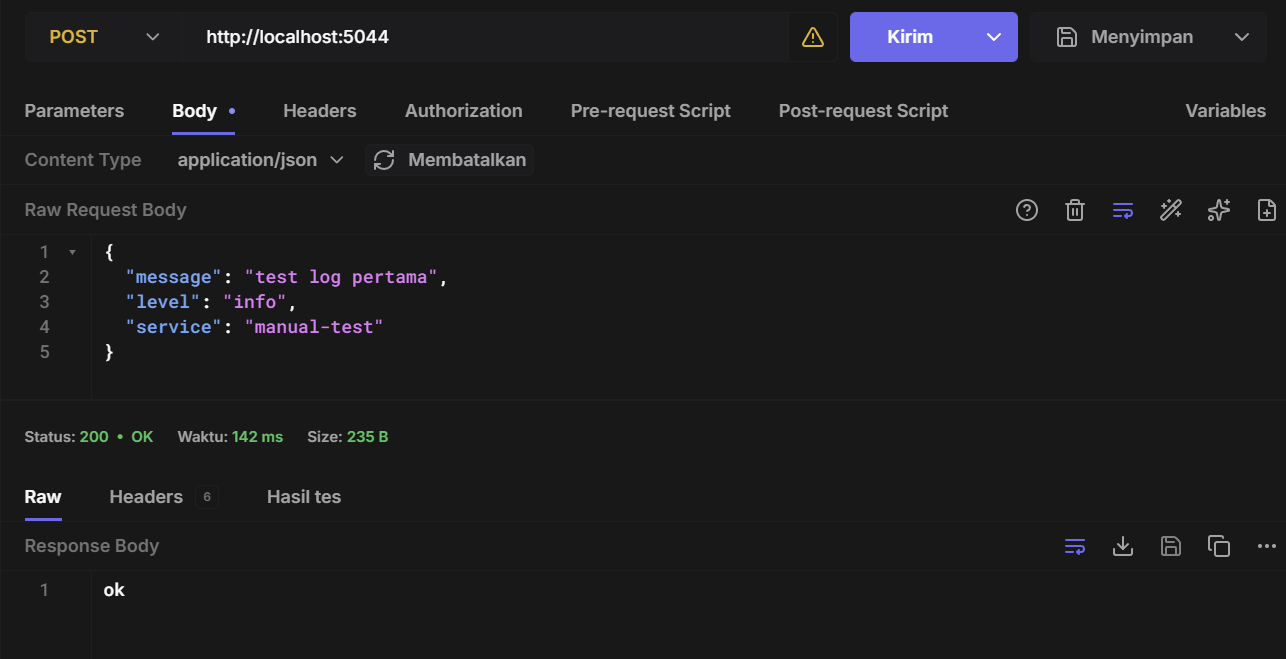
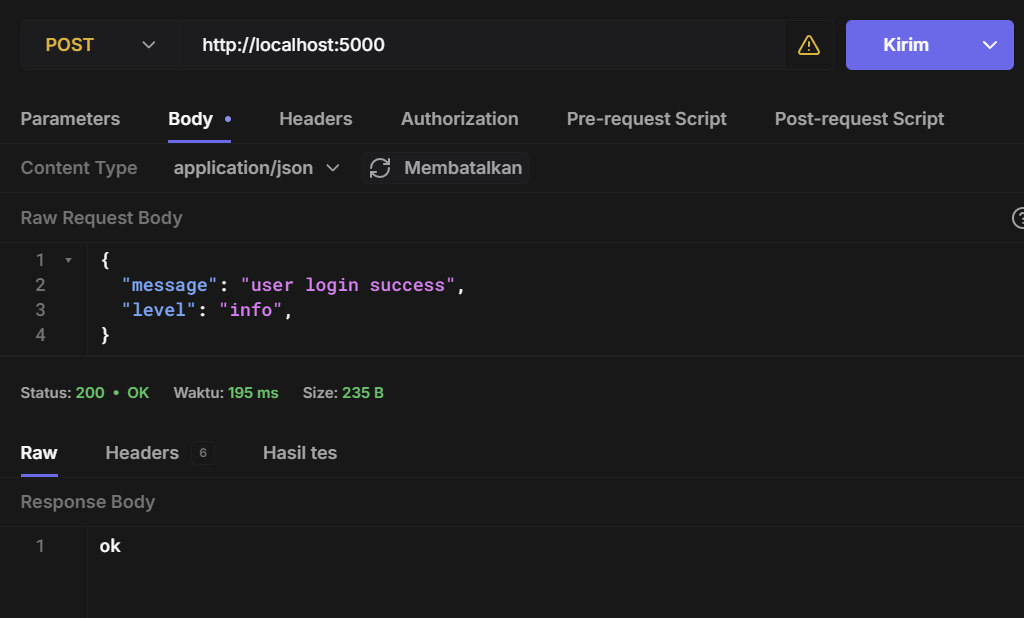
fix: port logstash

diff --git a/logging-monitoring/README.md b/logging-monitoring/README.md
@@ -114,7 +114,7 @@ Untuk mengimplementasikan ELK Stack, kita dapat mengikuti langkah-langkah beriku
         volumes:
         - ./logstash.conf:/usr/share/logstash/pipeline/logstash.conf
         ports:
-        - "5044:5044"
+        - "5000:5000" 
         depends_on:
         - elasticsearch
 
@@ -132,13 +132,8 @@ Untuk mengimplementasikan ELK Stack, kita dapat mengikuti langkah-langkah beriku
     input {
         http {
             host => "0.0.0.0"
-            port => 5044
-        }
-        }
-
-        filter {
-        json {
-            source => "message"
+            port => 5000
+            codec => json
         }
         }
 
@@ -156,7 +151,7 @@ Untuk mengimplementasikan ELK Stack, kita dapat mengikuti langkah-langkah beriku
 ![ELK Stack](images/image1.png)
 ![ELK Stack](images/image2.png)
 5. Testing dengan mengirimkan data log ke logstash menggunakan curl/postman/hoppscotch.
-![ELK Stack](images/image3.png)
+![ELK STACK](images/image3.png)
 6. Setelah data log berhasil dikirim, kita dapat cek secara manual di elasticsearch dengan get request ke `http://localhost:9200/app-logs-*/_search?pretty` 
 ![ELK Stack](images/image4.png)
 7. Terakhir, kita dapat membuat dashboard di Kibana untuk memvisualisasikan data log yang telah dikirim dengan cara :
